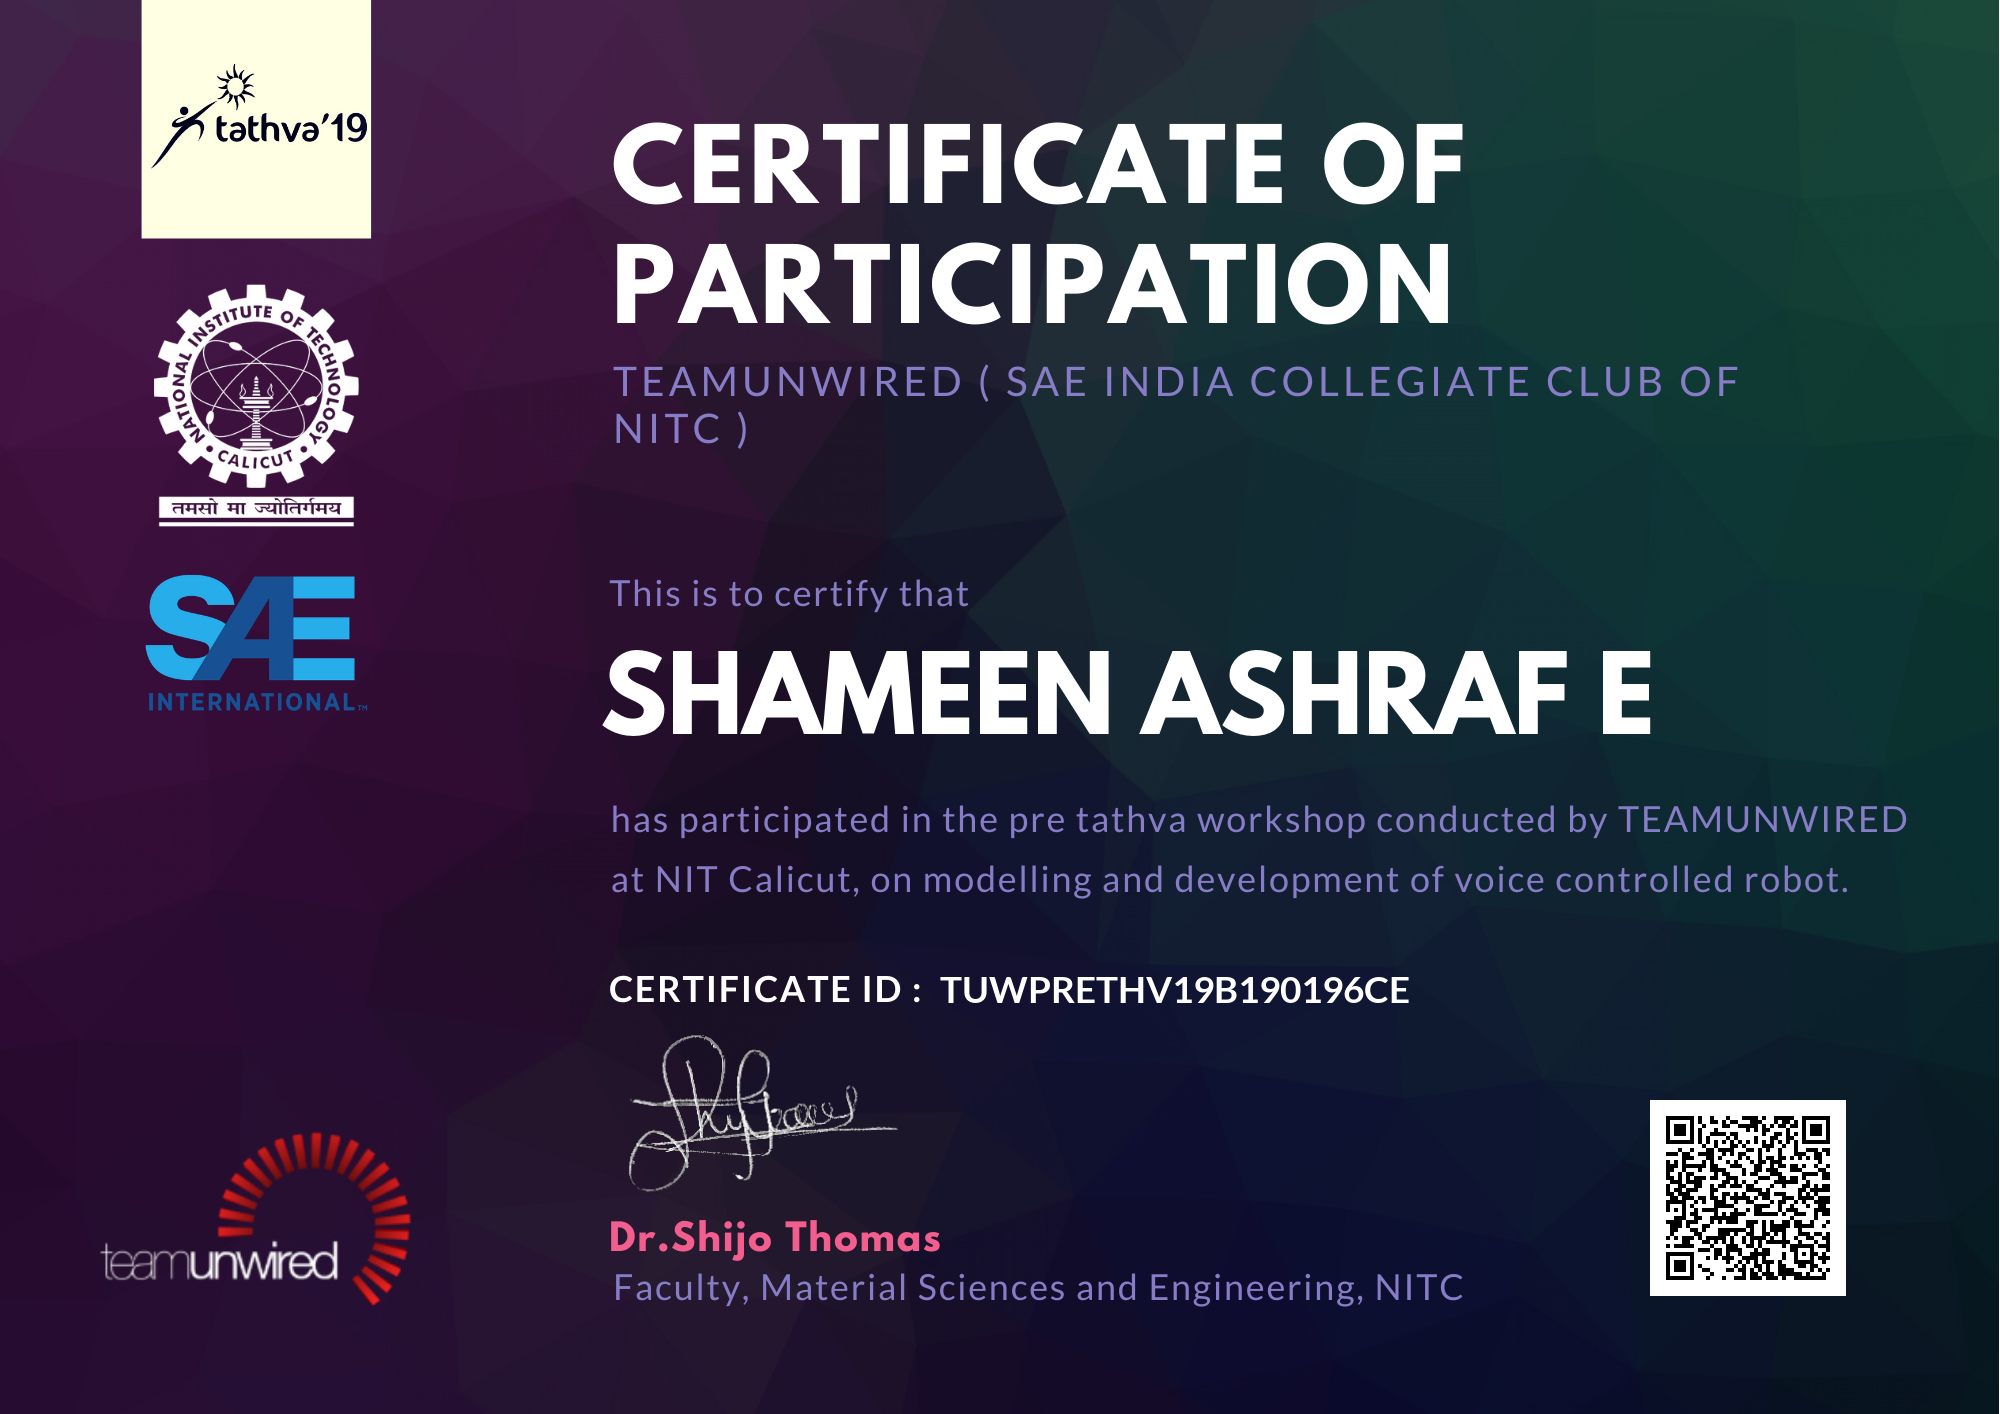
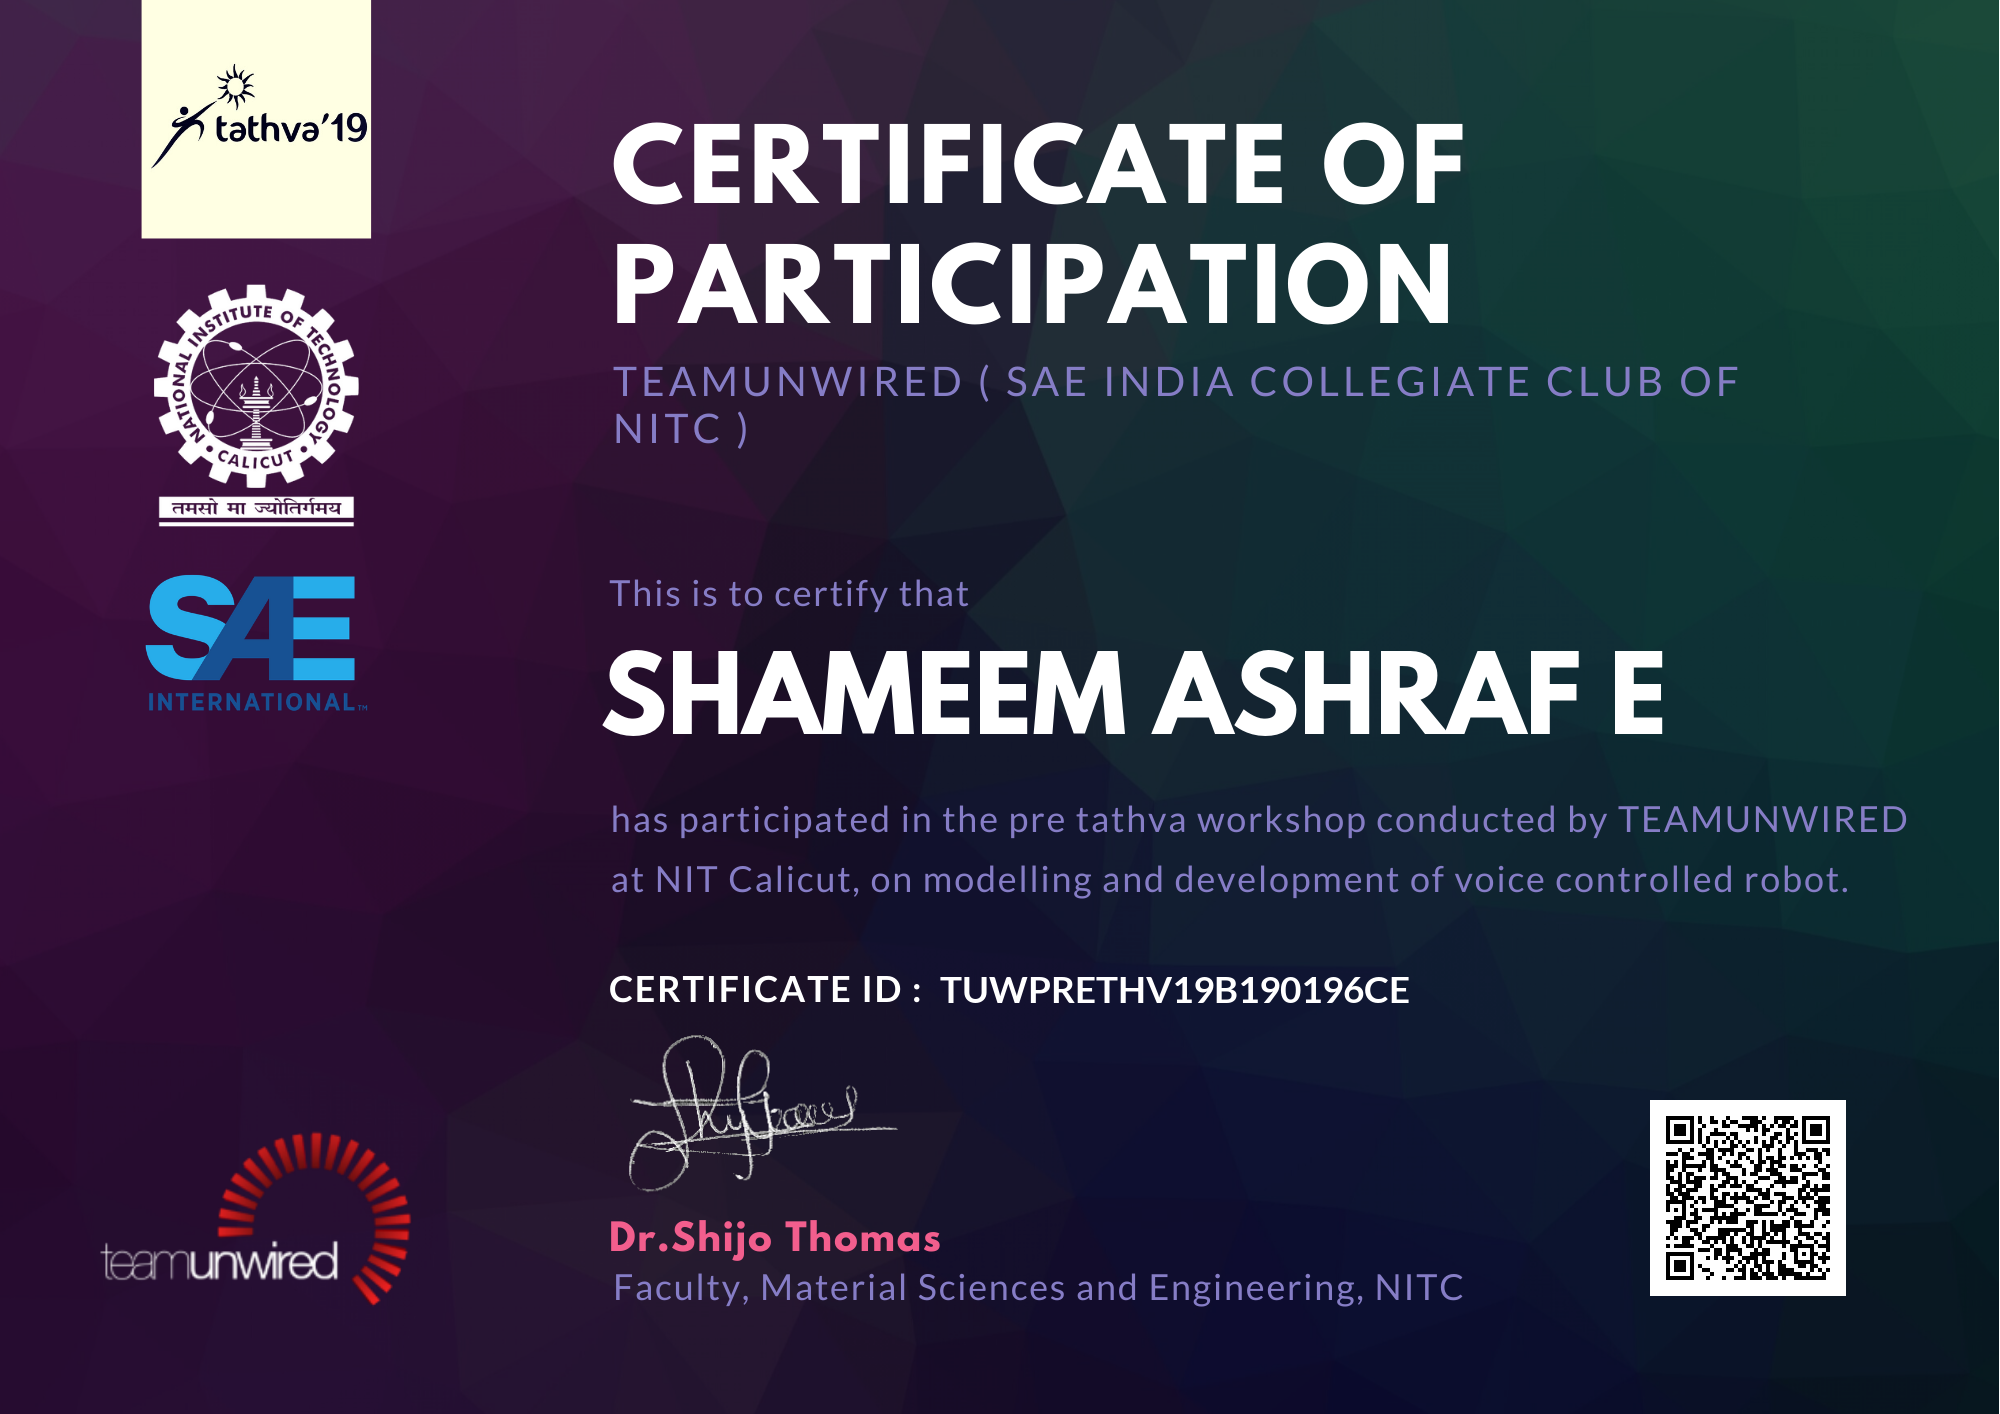
Corrections Uploaded

Changed region(s): [[0.527, 0.4356, 0.837, 0.529]]

diff --git a/verification/B190196CE.html b/verification/B190196CE.html
@@ -130,7 +130,7 @@
                             </div>                
 
                             <div class="card-box">
-                                <p class="block-text mbr-fonts-style display-5"><em>Shameen Ashraf E</em></p>
+                                <p class="block-text mbr-fonts-style display-5"><em>Shameem Ashraf E</em></p>
                             </div>
                         </div>
 

diff --git a/verification/B190554PE.html b/verification/B190554PE.html
@@ -130,7 +130,7 @@
                             </div>                
 
                             <div class="card-box">
-                                <p class="block-text mbr-fonts-style display-5"><em>Diyansh Kumar</em></p>
+                                <p class="block-text mbr-fonts-style display-5"><em>Divyansh Kumar</em></p>
                             </div>
                         </div>
 

diff --git a/verification/B191038EE.html b/verification/B191038EE.html
@@ -130,7 +130,7 @@
                             </div>                
 
                             <div class="card-box">
-                                <p class="block-text mbr-fonts-style display-5"><em>Devans Joshi</em></p>
+                                <p class="block-text mbr-fonts-style display-5"><em>Devang Joshi</em></p>
                             </div>
                         </div>
 
